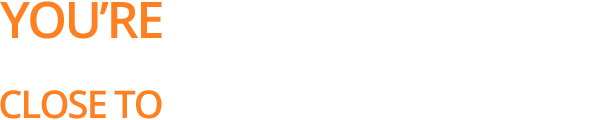
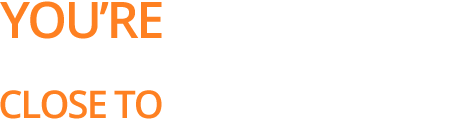
switch back to oswald

Changed region(s): [[0.0, 0.0, 0.3605, 0.325], [0.0, 0.725, 0.3605, 1.0]]

diff --git a/sass/_bones.scss b/sass/_bones.scss
@@ -41,8 +41,8 @@ FONT STYLES
 ––––––––––––––––––––––––––––––––––––––––––– */
 // Headlines
 [class*="headline_"] {
-  //font-family:"Oswald";
-  font-weight:800;
+  font-family:"Oswald";
+  font-weight:700;
   text-transform: uppercase;
 }
 .headline_xl{
@@ -53,11 +53,11 @@ FONT STYLES
 .headline_lg{
   font-size:6rem;
   line-height:5rem;
-  letter-spacing:-0.08em;
+  letter-spacing:-0.06em;
 }
 .headline_md{
   font-size:3.2rem;
-  letter-spacing:-0.05em;
+  letter-spacing:-0.03em;
 }
 .headline_sm{
   font-size:2.6rem;
@@ -65,7 +65,7 @@ FONT STYLES
 }
 .headline_xs{
   font-size:2.2rem;
-  letter-spacing:-0.03em;
+  letter-spacing:-0.02em;
 }
 
 //Headings

diff --git a/css/main.css b/css/main.css
@@ -43,7 +43,8 @@ FONT STYLES
 
 ––––––––––––––––––––––––––––––––––––––––––– */
 [class*="headline_"] {
-  font-weight: 800;
+  font-family: "Oswald";
+  font-weight: 700;
   text-transform: uppercase;
 }
 
@@ -56,12 +57,12 @@ FONT STYLES
 .headline_lg {
   font-size: 6rem;
   line-height: 5rem;
-  letter-spacing: -0.08em;
+  letter-spacing: -0.06em;
 }
 
 .headline_md {
   font-size: 3.2rem;
-  letter-spacing: -0.05em;
+  letter-spacing: -0.03em;
 }
 
 .headline_sm {
@@ -71,7 +72,7 @@ FONT STYLES
 
 .headline_xs {
   font-size: 2.2rem;
-  letter-spacing: -0.03em;
+  letter-spacing: -0.02em;
 }
 
 [class*="heading_"] {
